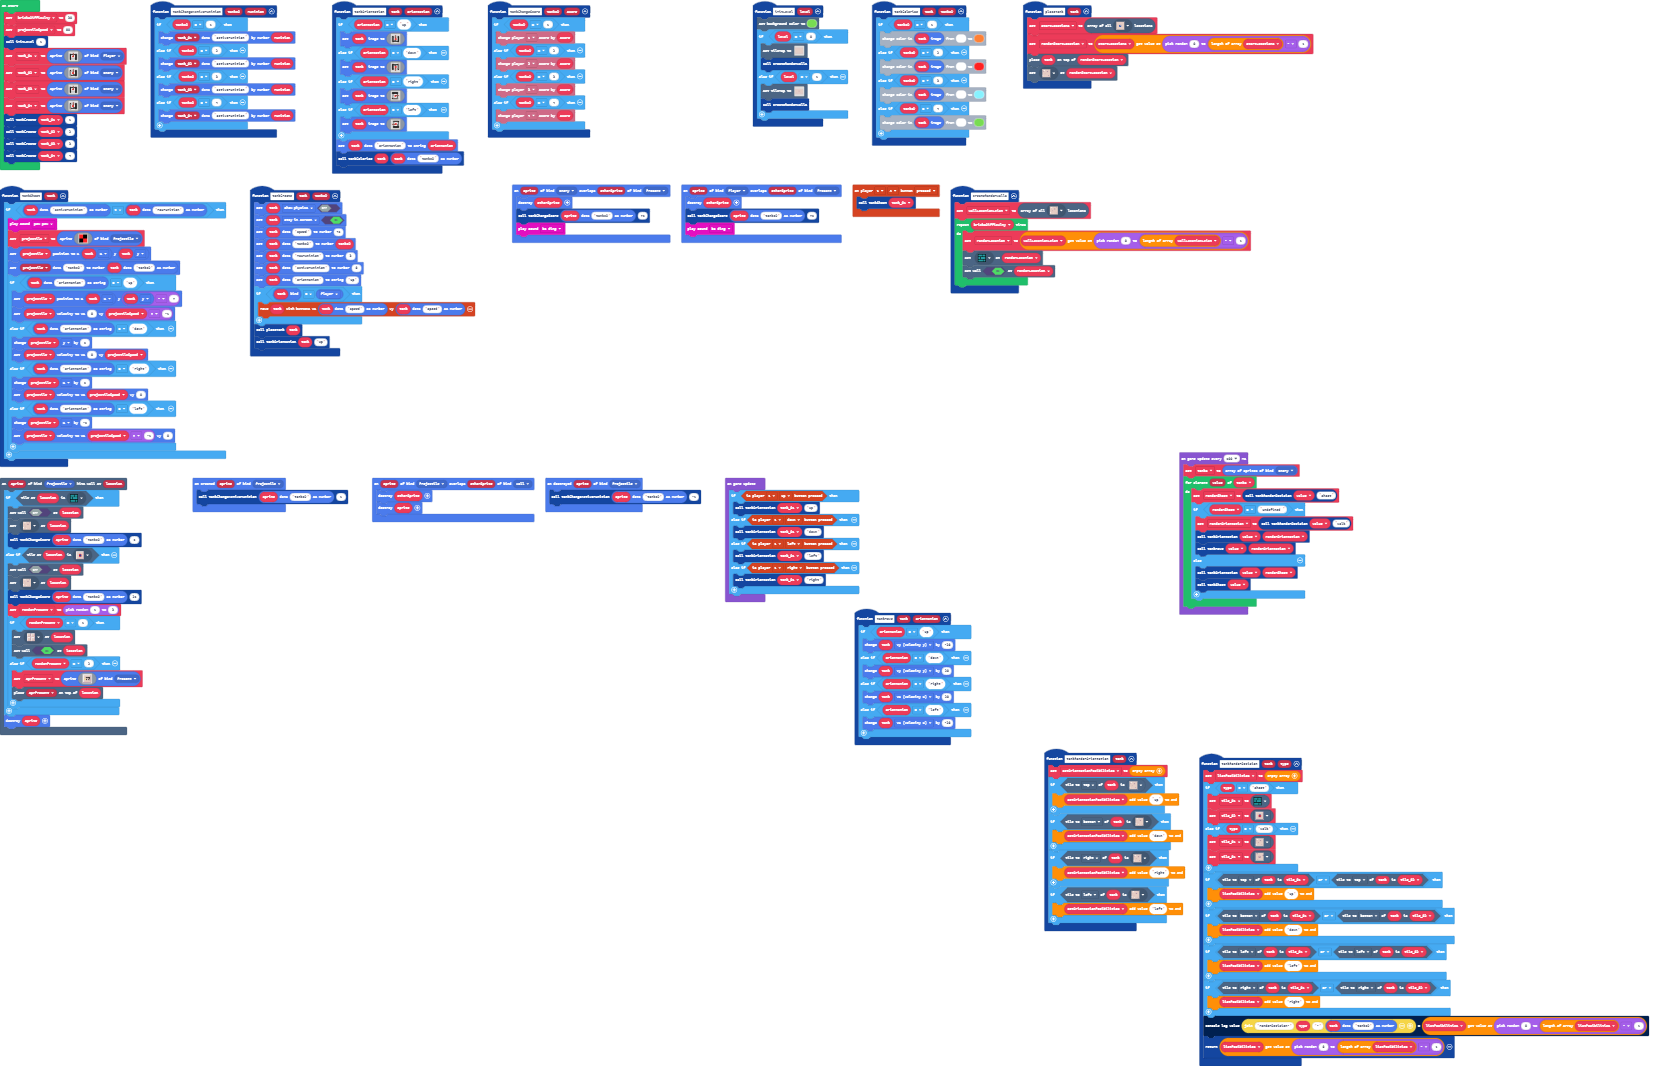
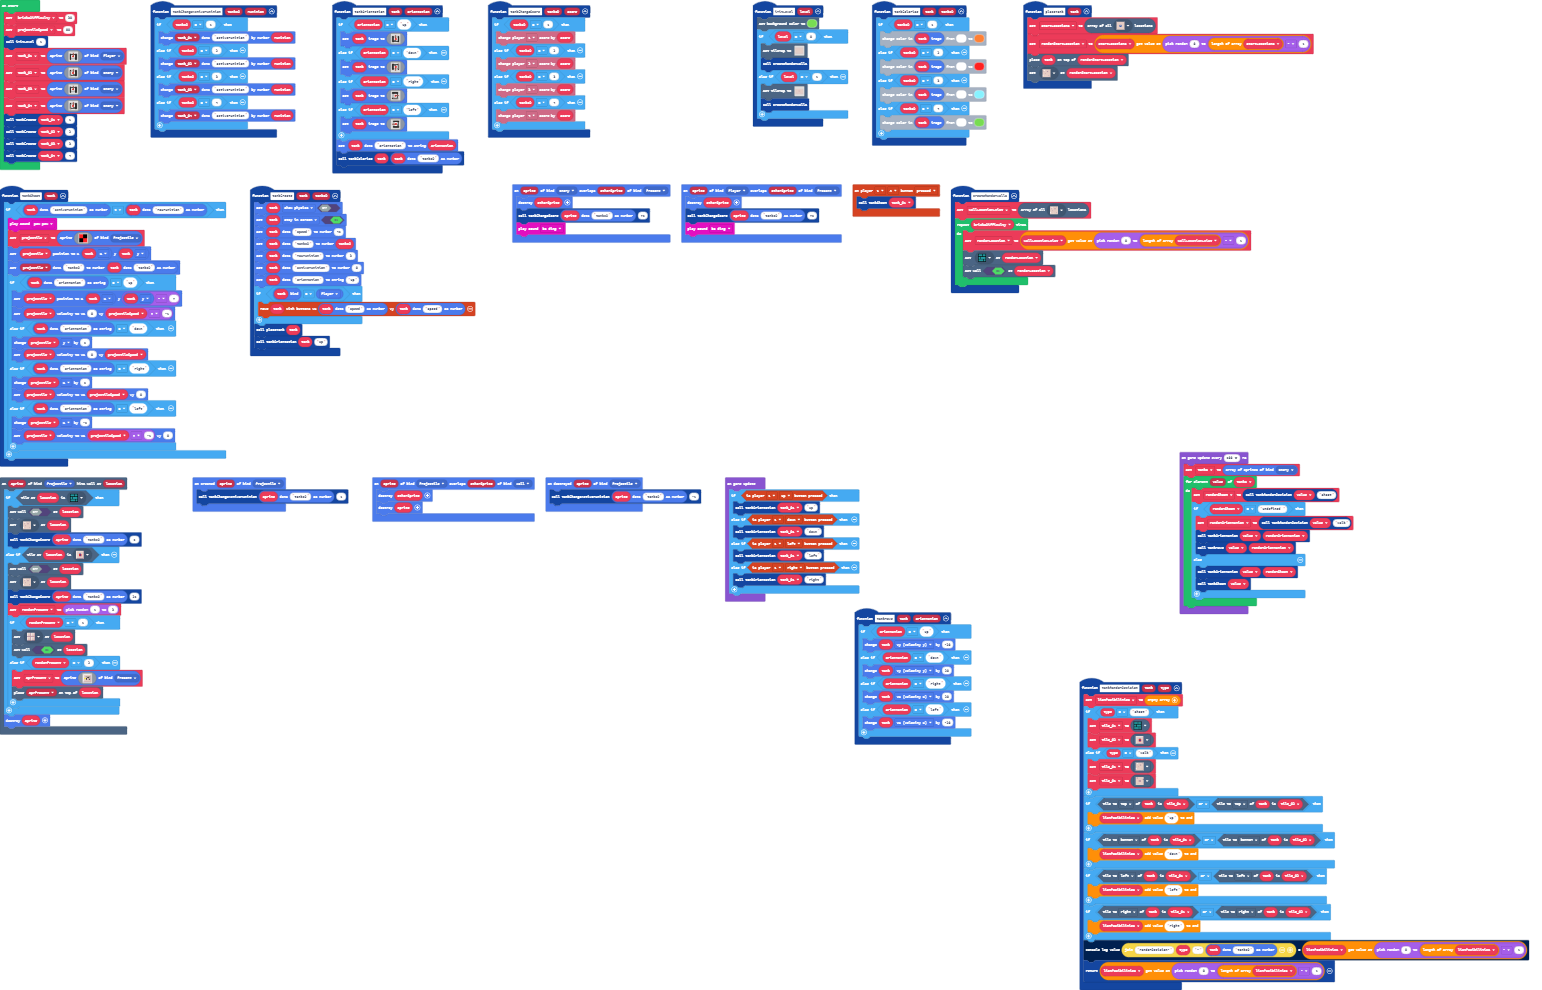
small change

Changed region(s): [[0.0, 0.0, 0.9961, 1.0], [0.6848, 0.4242, 0.8716, 0.6364]]

diff --git a/main.ts b/main.ts
@@ -291,25 +291,9 @@ sprites.onOverlap(SpriteKind.Projectile, SpriteKind.Wall, function (sprite, othe
 sprites.onDestroyed(SpriteKind.Projectile, function (sprite) {
     tankChangeActiveMunition(sprites.readDataNumber(sprite, "tankID"), -1)
 })
-function tankRandomOrientation (tank: Sprite) {
-    setOrientationPosibilities = []
-    if (tank.tileKindAt(TileDirection.Top, sprites.castle.tilePath5)) {
-        setOrientationPosibilities.push("up")
-    }
-    if (tank.tileKindAt(TileDirection.Bottom, sprites.castle.tilePath5)) {
-        setOrientationPosibilities.push("down")
-    }
-    if (tank.tileKindAt(TileDirection.Right, sprites.castle.tilePath5)) {
-        setOrientationPosibilities.push("right")
-    }
-    if (tank.tileKindAt(TileDirection.Left, sprites.castle.tilePath5)) {
-        setOrientationPosibilities.push("left")
-    }
-}
 let randomOrientation = ""
 let randomShoot = ""
 let tanks: Sprite[] = []
-let setOrientationPosibilities: string[] = []
 let sprPresent: Sprite = null
 let randomPresent = 0
 let randomLocation: tiles.Location = null
